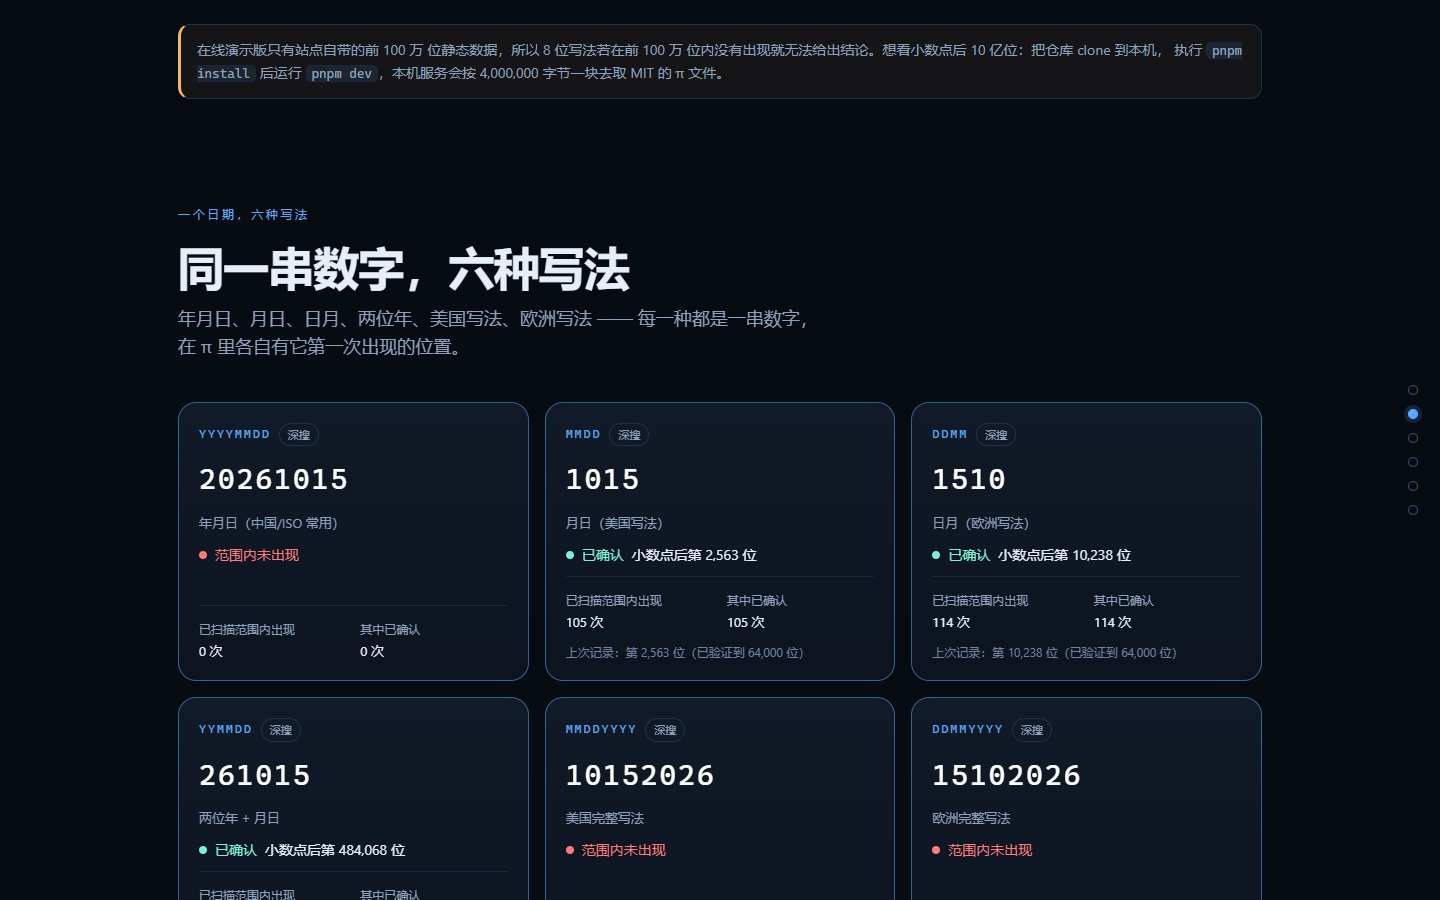
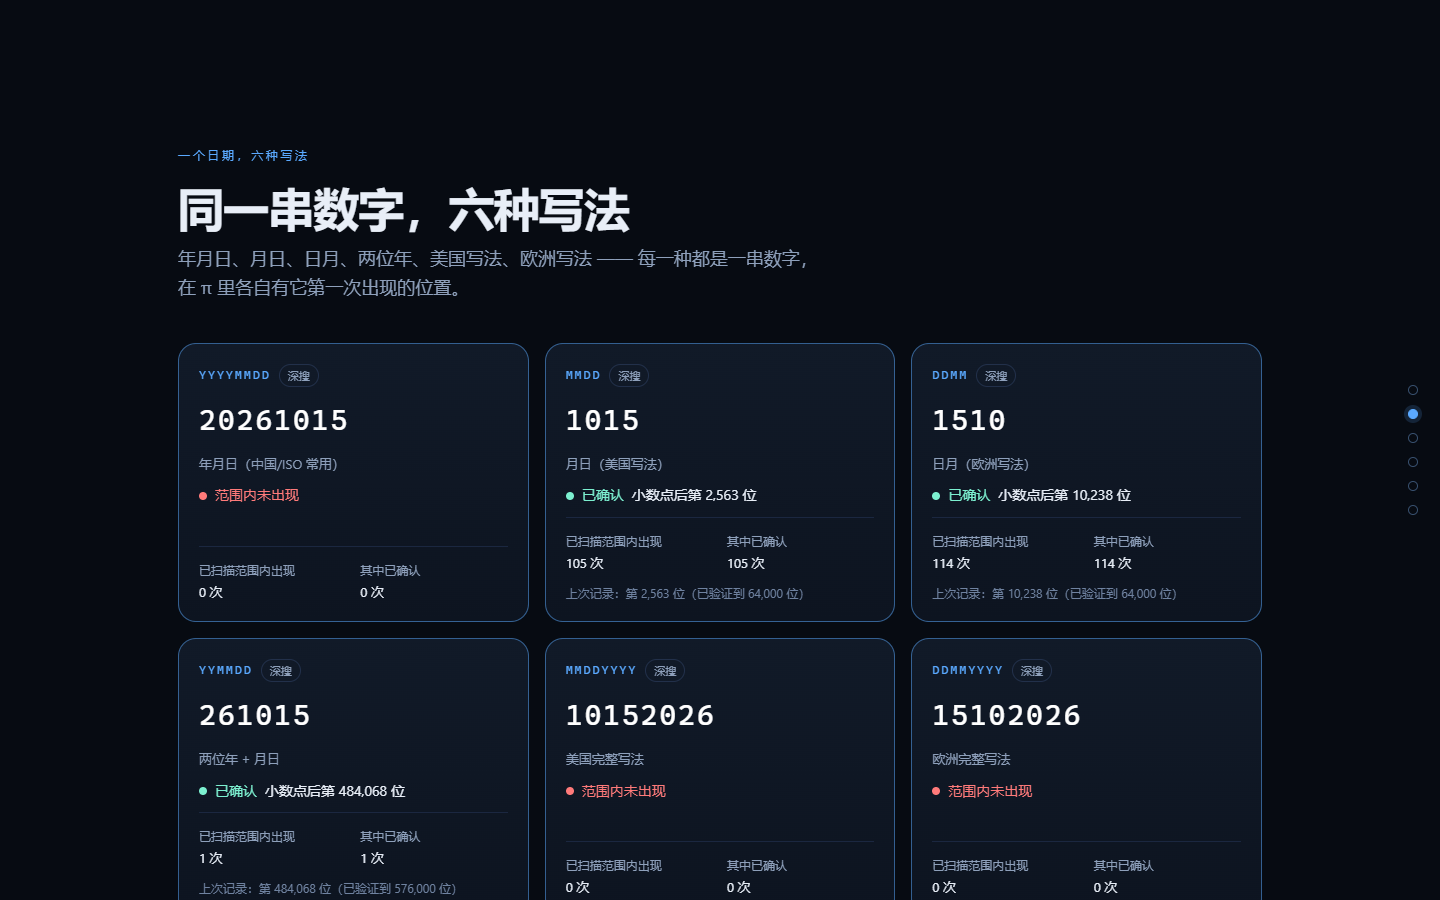
删掉静态版的顶部提示条（滚动吸附下它落在章节之间看不到）
静态 100 万位的说明本来就只有这一条提示条在讲，但它位于 hero 与 #forms 之间、被 scroll-snap-align 跳过；删掉后这段说明只由 #engine 与 #trust 两章承担，README 同步。

diff --git a/src/App.tsx b/src/App.tsx
@@ -16,7 +16,7 @@ import { PiSearchRun, type ScanSnapshot, type Scanner } from './lib/searchEngine
 import { probeSource, type DigitSource } from './lib/digitSource';
 import { createScanPool, type ScanPool } from './lib/workerScanner';
 import { clearCache, loadCache, saveCache, type CachedResult } from './lib/resultCache';
-import { formatCompact, pad2, parseDateKey, toDateKey } from './lib/position';
+import { pad2, parseDateKey, toDateKey } from './lib/position';
 import type { DigitsStripProps, StripWriting } from './components/DigitsStrip';
 import type { SelfCheckState } from './components/Conventions';
 
@@ -324,14 +324,6 @@ export default function App() {
       />
 
       <main className="flow">
-        {source?.kind === 'static' ? (
-          <p className="notice">
-            在线演示版只有站点自带的前 {formatCompact(source.maxDigits)} 位静态数据，所以 8 位写法若在前{' '}
-            {formatCompact(source.maxDigits)} 位内没有出现就无法给出结论。想看小数点后 10 亿位：把仓库 clone 到本机，
-            执行 <code>pnpm install</code> 后运行 <code>pnpm dev</code>，本机服务会按 4,000,000 字节一块去取 MIT 的 π 文件。
-          </p>
-        ) : null}
-
         {source?.kind === 'unavailable' ? (
           <p className="notice notice-bad">
             没有可用的 π 数据源：本机服务未启动，且站点自带的 <code>public/pi-1m.txt</code> 读取失败（可执行{' '}

diff --git a/README.md b/README.md
@@ -50,7 +50,7 @@ pnpm dev        # http://127.0.0.1:5273
 1. **本机服务（首选）**：`/api/meta` + `/api/digits`，由 `server/pi-service.mjs` 提供，dev / preview / `pnpm serve` 三者共用同一份中间件。
    - 上游：<https://stuff.mit.edu/afs/sipb/contrib/pi/pi-billion.txt>（10 亿位小数，ASCII 无换行，支持 Range 请求）。
    - 按 4,000,000 字节一块切成 251 块，先写临时文件再 `rename`，所以缓存文件永远是完整的；同一块的并发请求只下载一次。
-2. **静态降级**：`public/pi-1m.txt`（`pnpm fetch-fallback` 生成，前 100 万位）。没有本机服务时（例如 GitHub Pages 上的在线演示版）页面读这份同源文件并提示「只有前 100 万位」，8 位写法在此范围内找不到时不能下结论。
+2. **静态降级**：`public/pi-1m.txt`（`pnpm fetch-fallback` 生成，前 100 万位）。没有本机服务时（例如 GitHub Pages 上的在线演示版）页面读这份同源文件；「只有前 100 万位」这件事写在 `#engine` 与 `#trust` 两章里（首屏不再插提示条），8 位写法在此范围内找不到时不能下结论。
 3. 浏览器**不能**直连 MIT：该服务器没有返回 `Access-Control-Allow-Origin`，跨域会被挡，所以必须经本机服务。
 
 ## HTTP 接口
@@ -112,7 +112,7 @@ pnpm dlx playwright screenshot --channel=chrome --color-scheme=dark --viewport-s
 # 章节： #forms / #digits / #engine / #pick / #trust 各来一张
 ```
 
-手工核对：首屏计数从 0 走到位次、卡片 90ms 依次浮入、数字带命中片段逐位点亮、`#engine` 方块循环点亮、导航轨高亮与点击跳转、滚轮翻章（在章节边界滚一格翻一整段，`#forms` 这种比一屏高的段先原生滚到底）、`?date=2028-02-29`（首屏给 `DDMM 2902` → 第 713 位；`YYMMDD 280229` → 第 451,478 位）、日期切换后首屏跟随、停止 / 重新搜索 / 清空本机记录、静态降级提示、762 位自检徽章；再把浏览器调成 620px 宽确认单列与导航轨隐藏，并在 DevTools 里模拟 `prefers-reduced-motion: reduce` 确认所有动画一次性归零。
+手工核对：首屏计数从 0 走到位次、卡片 90ms 依次浮入、数字带命中片段逐位点亮、`#engine` 方块循环点亮、导航轨高亮与点击跳转、滚轮翻章（在章节边界滚一格翻一整段，`#forms` 这种比一屏高的段先原生滚到底）、`?date=2028-02-29`（首屏给 `DDMM 2902` → 第 713 位；`YYMMDD 280229` → 第 451,478 位）、日期切换后首屏跟随、停止 / 重新搜索 / 清空本机记录、静态数据源下 `#engine` / `#trust` 的文案分支、762 位自检徽章；再把浏览器调成 620px 宽确认单列与导航轨隐藏，并在 DevTools 里模拟 `prefers-reduced-motion: reduce` 确认所有动画一次性归零。
 
 ## 界面实拍
 
